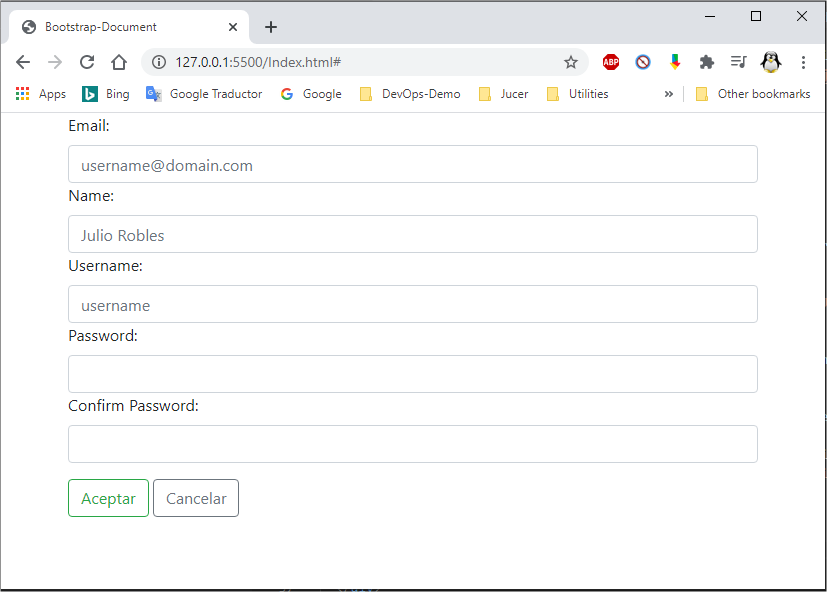
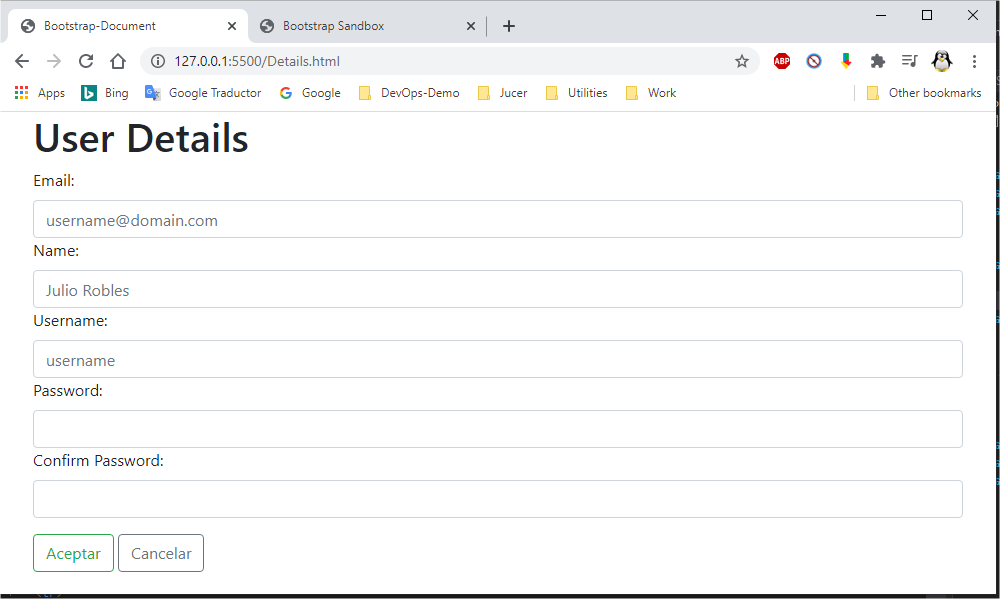
Sesion-03

diff --git a/Proyecto/Plantillas/Index.html b/Proyecto/Plantillas/Index.html
@@ -1,0 +1,79 @@
+<!DOCTYPE html>
+<html lang="en">
+<head>
+  <meta charset="UTF-8">
+  <meta name="viewport" content="width=device-width, initial-scale=1.0">
+  <!-- CSS -->
+  <link rel="stylesheet" href="https://cdn.jsdelivr.net/npm/bootstrap@4.5.3/dist/css/bootstrap.min.css" integrity="sha384-TX8t27EcRE3e/ihU7zmQxVncDAy5uIKz4rEkgIXeMed4M0jlfIDPvg6uqKI2xXr2" crossorigin="anonymous">
+  <!-- JS / Bundle -->
+  <script src="https://code.jquery.com/jquery-3.5.1.slim.min.js" integrity="sha384-DfXdz2htPH0lsSSs5nCTpuj/zy4C+OGpamoFVy38MVBnE+IbbVYUew+OrCXaRkfj" crossorigin="anonymous"></script>
+  <script src="https://cdn.jsdelivr.net/npm/bootstrap@4.5.3/dist/js/bootstrap.bundle.min.js" integrity="sha384-ho+j7jyWK8fNQe+A12Hb8AhRq26LrZ/JpcUGGOn+Y7RsweNrtN/tE3MoK7ZeZDyx" crossorigin="anonymous"></script>
+  <!-- Font Awesome / Icons -->
+  <link rel="stylesheet" href="https://use.fontawesome.com/releases/v5.0.13/css/all.css" integrity="sha384-DNOHZ68U8hZfKXOrtjWvjxusGo9WQnrNx2sqG0tfsghAvtVlRW3tvkXWZh58N9jp" crossorigin="anonymous">
+  <title>Bootstrap-Document</title>
+</head>
+<body>
+  <div class="container">
+    <h1>User List </h1>
+    <p> 
+      <a href="#" class="btn btn-success"><i class="fas fa-plus"></i> New</a>
+    </p>
+  </div>
+  <!-- Table -->
+  <div class="container">
+    <table class="table">
+      <thead>
+        <tr>
+            <th>Id</th>
+            <th>Email</th>
+            <th>Name</th>
+            <th>Username</th>
+            <th>Password</th>
+            <!-- Actions -->
+            <th>Actions</th>
+        </tr>
+      </thead>
+      <tbody>
+        <tr>
+            <td>1</td>
+            <td>Julio.Robles@email.com</td>
+            <td>Julio Robles</td>
+            <td>jrobles</td>
+            <td>Password</td>
+            <td>
+              <a href="#" class="btn btn-outline-primary">Edit</a>
+              <a href="#" class="btn btn-outline-warning">Details</a>
+              <a href="#" class="btn btn-outline-danger">Delete</a>
+            </td>
+        </tr>
+
+        <tr>
+          <td>2</td>
+          <td>Pilar.Lopez@email.com</td>
+          <td>Pilar Lopez</td>
+          <td>plopez</td>
+          <td>Password</td>
+          <td>
+            <a href="#" class="btn btn-outline-primary">Edit</a>
+            <a href="#" class="btn btn-outline-warning">Details</a>
+            <a href="#" class="btn btn-outline-danger">Delete</a>
+          </td>
+      </tr>
+      
+      <tr>
+        <td>3</td>
+        <td>Felipe.Daza@email.com</td>
+        <td>Felipe Daza</td>
+        <td>fdaza</td>
+        <td>Password</td>
+        <td>
+          <a href="#" class="btn btn-outline-primary btn-sm">Edit</a>
+          <a href="#" class="btn btn-outline-warning btn-sm">Details</a>
+          <a href="#" class="btn btn-outline-danger btn-sm">Delete</a>
+        </td>
+    </tr>
+    </tbody>
+  </table>
+  </div>
+</body>
+</html>

diff --git a/Proyecto/Plantillas/Details.html b/Proyecto/Plantillas/Details.html
@@ -1,0 +1,40 @@
+<!DOCTYPE html>
+<html lang="en">
+<head>
+  <meta charset="UTF-8">
+  <meta name="viewport" content="width=device-width, initial-scale=1.0">
+  <!-- CSS -->
+  <link rel="stylesheet" href="https://cdn.jsdelivr.net/npm/bootstrap@4.5.3/dist/css/bootstrap.min.css" integrity="sha384-TX8t27EcRE3e/ihU7zmQxVncDAy5uIKz4rEkgIXeMed4M0jlfIDPvg6uqKI2xXr2" crossorigin="anonymous">
+  <!-- JS / Bundle -->
+  <script src="https://code.jquery.com/jquery-3.5.1.slim.min.js" integrity="sha384-DfXdz2htPH0lsSSs5nCTpuj/zy4C+OGpamoFVy38MVBnE+IbbVYUew+OrCXaRkfj" crossorigin="anonymous"></script>
+  <script src="https://cdn.jsdelivr.net/npm/bootstrap@4.5.3/dist/js/bootstrap.bundle.min.js" integrity="sha384-ho+j7jyWK8fNQe+A12Hb8AhRq26LrZ/JpcUGGOn+Y7RsweNrtN/tE3MoK7ZeZDyx" crossorigin="anonymous"></script>
+  <title>Bootstrap-Document</title>
+</head>
+<body>
+  <!-- Form -->    
+  <div class="container">
+    <h1>User Details</h1>
+    <form id="frmUser">
+      <div class="form-group">
+        <label id="lblEmail" for="email">Email:</label>
+        <input type="email" id="txtEmail" name="email" placeholder="username@domain.com" required class="form-control">
+
+        <label id="lblName" for="name">Name:</label>
+        <input type="text" id="txtName" name="name" placeholder="Julio Robles" required class="form-control">
+
+        <label id="lblUsername" for="username">Username:</label>
+        <input type="text" id="txtUsername" name="username" placeholder="username" required class="form-control">
+
+        <label id="lblPassword" for="password">Password:</label>
+        <input type="password" id="txtPassword" name="password" required class="form-control">
+
+        <label id="lblConfirmPassword" for="confirmPassword">Confirm Password:</label>
+        <input type="password" id="txtConfirmPassword" name="confirmPassword" required class="form-control">
+
+      </div>
+      <a href="#" class="btn btn-outline-success">Aceptar</a>
+      <a href="#" class="btn btn-outline-secondary">Cancelar</a>
+    </form>
+  </div>
+</body>
+</html>

diff --git a/Sesiones/Sesion-03/Readme.md b/Sesiones/Sesion-03/Readme.md
@@ -107,6 +107,7 @@ Ahora vamos a crear nuestro formulario para poder obtener los datos necesarios p
 <body>
   <!-- Form -->    
   <div class="container">
+    <h1>User Details</h1>
     <form id="frmUser">
       <div class="form-group">
         <label id="lblEmail" for="email">Email:</label>
@@ -126,6 +127,7 @@ Ahora vamos a crear nuestro formulario para poder obtener los datos necesarios p
 
       </div>
       <a href="#" class="btn btn-outline-success">Aceptar</a>
+      <a href="#" class="btn btn-outline-secondary">Cancelar</a>
     </form>
   </div>
 </body>
@@ -136,4 +138,99 @@ De esta forma tenemos nuestro formulario Inicial para capturar los datos que vam
 
 ![Bootstrap](https://github.com/Jucer74/WebDev/blob/main/Sesiones/Sesion-03/Bootstrap-05.png)
 
+## La lista de Usuarios
+Ahora vamos a adicionar la lista de usuarios, para ello adicionamos un nuevo archivo llamado **Index.html**
+
+![Bootstrap](https://github.com/Jucer74/WebDev/blob/main/Sesiones/Sesion-03/Bootstrap-06.png)
+
+Editamos nuestro archivo y adicionamos una tabla para listar los usuarios de la siguientes forma:
+
+```html
+<!DOCTYPE html>
+<html lang="en">
+<head>
+  <meta charset="UTF-8">
+  <meta name="viewport" content="width=device-width, initial-scale=1.0">
+  <!-- CSS -->
+  <link rel="stylesheet" href="https://cdn.jsdelivr.net/npm/bootstrap@4.5.3/dist/css/bootstrap.min.css" integrity="sha384-TX8t27EcRE3e/ihU7zmQxVncDAy5uIKz4rEkgIXeMed4M0jlfIDPvg6uqKI2xXr2" crossorigin="anonymous">
+  <!-- JS / Bundle -->
+  <script src="https://code.jquery.com/jquery-3.5.1.slim.min.js" integrity="sha384-DfXdz2htPH0lsSSs5nCTpuj/zy4C+OGpamoFVy38MVBnE+IbbVYUew+OrCXaRkfj" crossorigin="anonymous"></script>
+  <script src="https://cdn.jsdelivr.net/npm/bootstrap@4.5.3/dist/js/bootstrap.bundle.min.js" integrity="sha384-ho+j7jyWK8fNQe+A12Hb8AhRq26LrZ/JpcUGGOn+Y7RsweNrtN/tE3MoK7ZeZDyx" crossorigin="anonymous"></script>
+  <!-- Font Awesome / Icons -->
+  <link rel="stylesheet" href="https://use.fontawesome.com/releases/v5.0.13/css/all.css" integrity="sha384-DNOHZ68U8hZfKXOrtjWvjxusGo9WQnrNx2sqG0tfsghAvtVlRW3tvkXWZh58N9jp" crossorigin="anonymous">
+  <title>Bootstrap-Document</title>
+</head>
+<body>
+  <div class="container">
+    <h1>User List </h1>
+    <p> 
+      <a href="#" class="btn btn-success"><i class="fas fa-plus"></i> New</a>
+    </p>
+  </div>
+  <!-- Table -->
+  <div class="container">
+    <table class="table">
+      <thead>
+        <tr>
+            <th>Id</th>
+            <th>Email</th>
+            <th>Name</th>
+            <th>Username</th>
+            <th>Password</th>
+            <!-- Actions -->
+            <th>Actions</th>
+        </tr>
+      </thead>
+      <tbody>
+        <tr>
+            <td>1</td>
+            <td>Julio.Robles@email.com</td>
+            <td>Julio Robles</td>
+            <td>jrobles</td>
+            <td>Password</td>
+            <td>
+              <a href="#" class="btn btn-outline-primary">Edit</a>
+              <a href="#" class="btn btn-outline-warning">Details</a>
+              <a href="#" class="btn btn-outline-danger">Delete</a>
+            </td>
+        </tr>
+
+        <tr>
+          <td>2</td>
+          <td>Pilar.Lopez@email.com</td>
+          <td>Pilar Lopez</td>
+          <td>plopez</td>
+          <td>Password</td>
+          <td>
+            <a href="#" class="btn btn-outline-primary">Edit</a>
+            <a href="#" class="btn btn-outline-warning">Details</a>
+            <a href="#" class="btn btn-outline-danger">Delete</a>
+          </td>
+      </tr>
+      
+      <tr>
+        <td>3</td>
+        <td>Felipe.Daza@email.com</td>
+        <td>Felipe Daza</td>
+        <td>fdaza</td>
+        <td>Password</td>
+        <td>
+          <a href="#" class="btn btn-outline-primary btn-sm">Edit</a>
+          <a href="#" class="btn btn-outline-warning btn-sm">Details</a>
+          <a href="#" class="btn btn-outline-danger btn-sm">Delete</a>
+        </td>
+    </tr>
+    </tbody>
+  </table>
+  </div>
+</body>
+</html>
+```
+
+Acá podemos ver el resultado
+
+![Bootstrap](https://github.com/Jucer74/WebDev/blob/main/Sesiones/Sesion-03/Bootstrap-07.png)
+
+
+## Ejemplos
 En este directorio vamos a encontrar unos ejemplos de cada uno de los elementos que pueden ser utilizados con Bootstrap para que aprendamos a utilizarlos.

diff --git a/Sesiones/Sesion-04/Readme.md b/Sesiones/Sesion-04/Readme.md
@@ -164,12 +164,13 @@ public ActionResult Index()
   return View("UserListView", userList);
 }
 ```
+c. Ejecute la aplicación presionando **F5** y valide los resultados, redireccionando la ruta a **/Users**.
 
-Ejecute laaplicación presionando F5 y valide los resultados.
+![MVC](https://github.com/Jucer74/WebDev/blob/main/Sesiones/Sesion-04/MVC-16.png)
+
+En este punto podemos aplicar los cambios aprendidos en la sesión anterior y mejorar nuestra vista.
 
 
-
-En este punto podemos aplicar los cambios aprendidos en la sesión anterior y dejar nuestra vista
 
 
 
